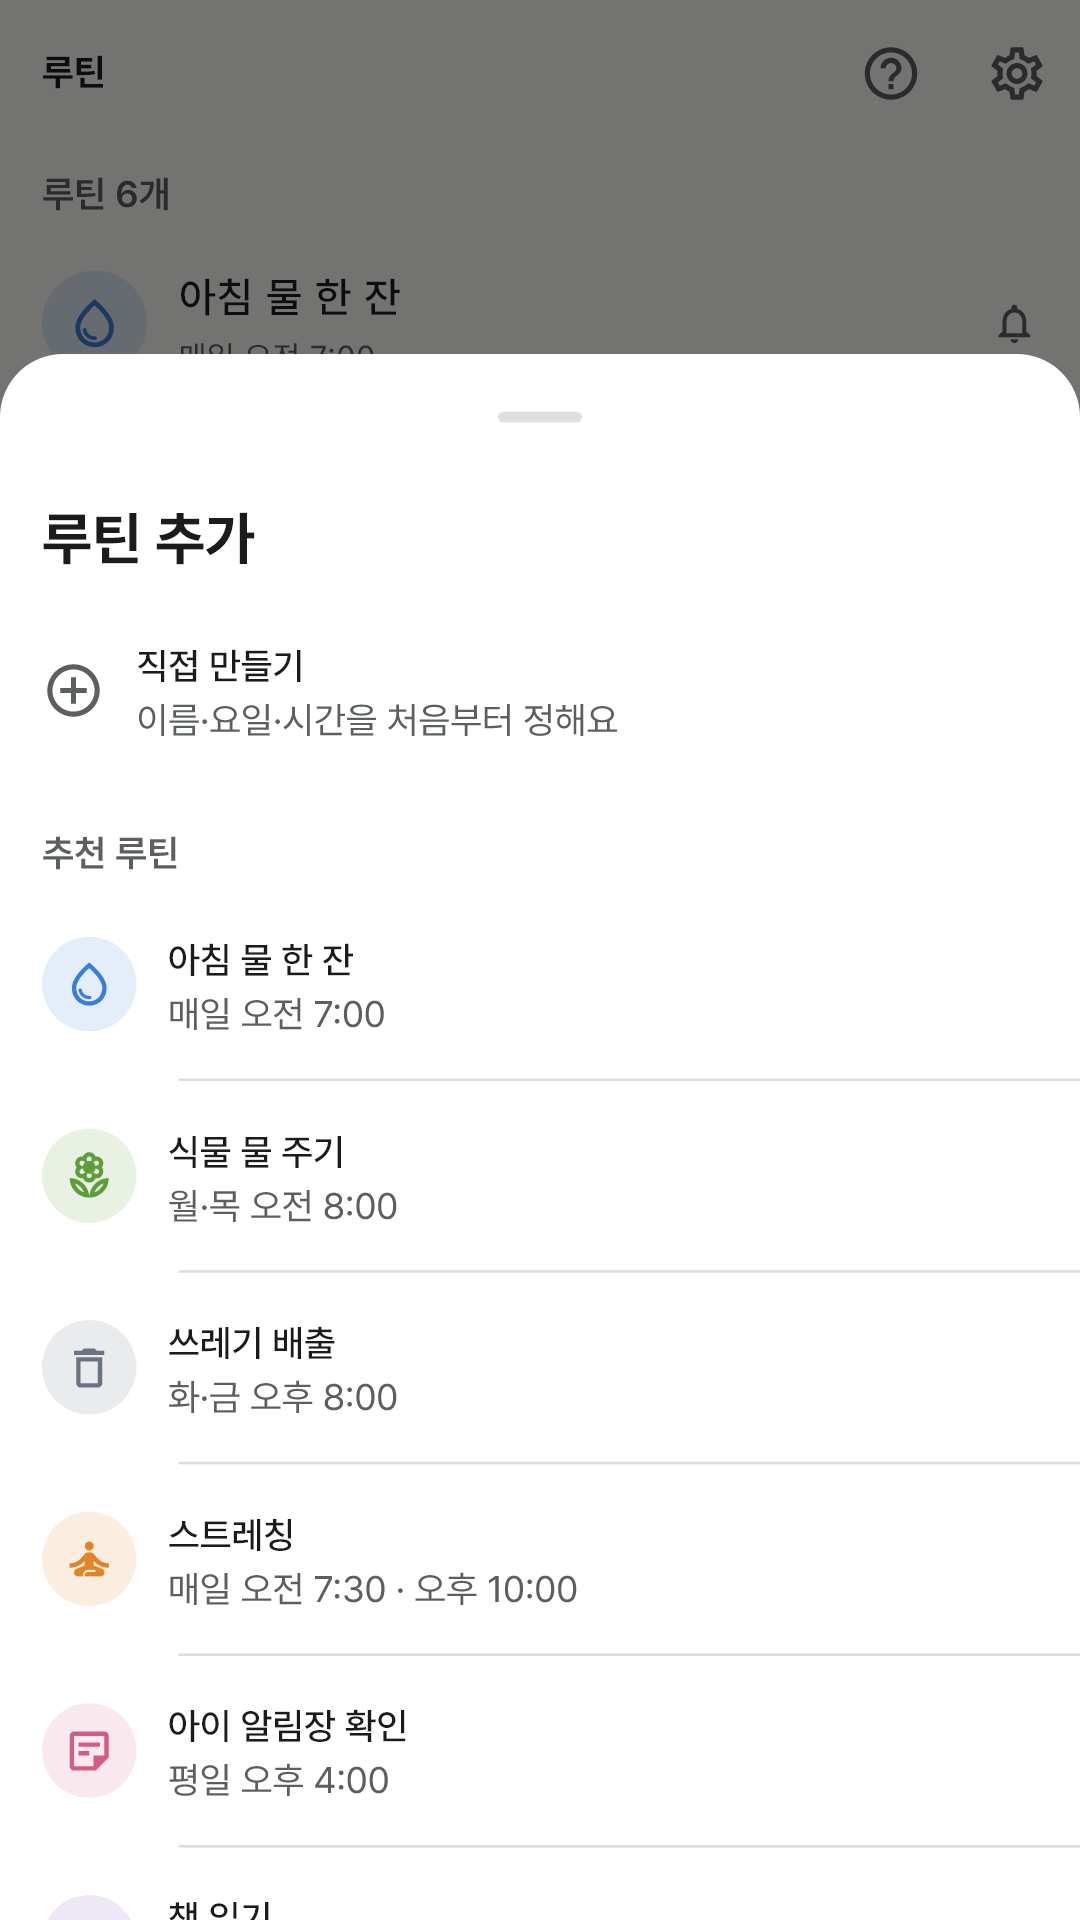
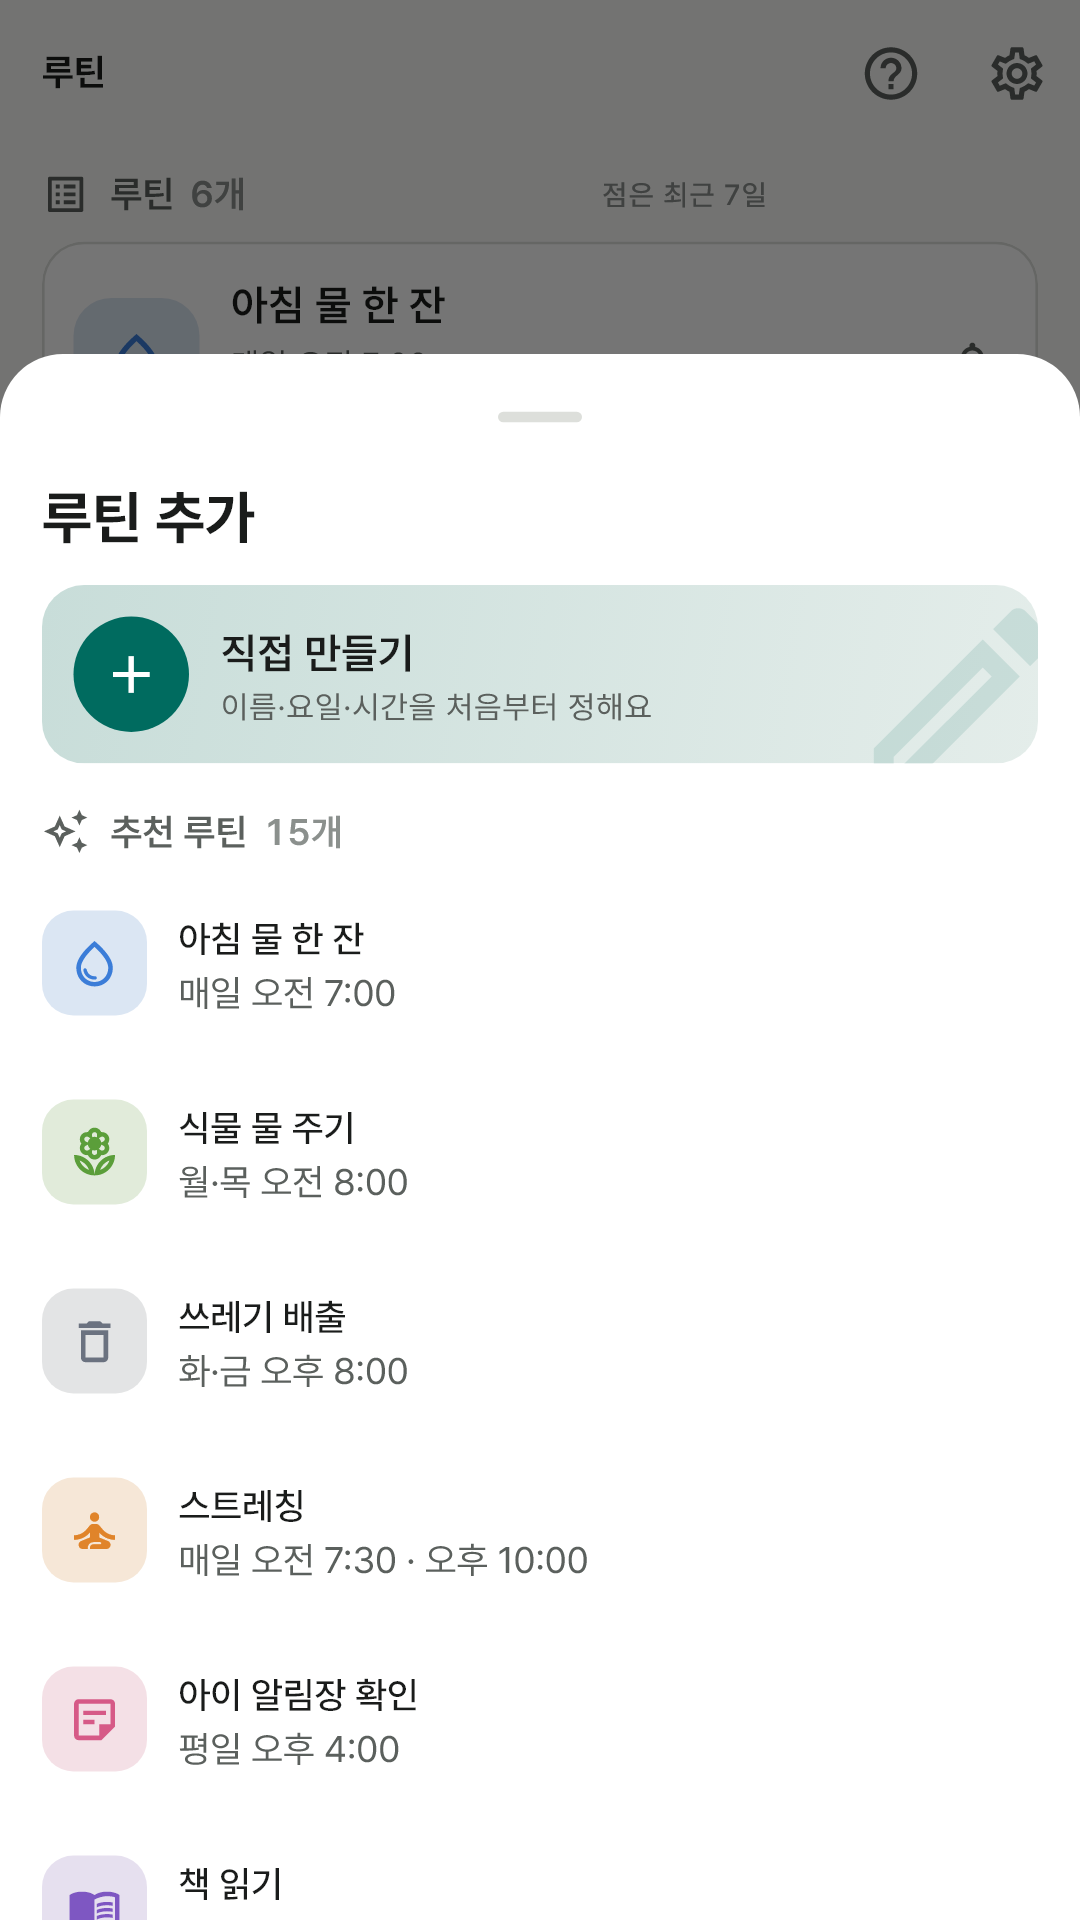
루틴 소개 페이지: 개편한 화면 스크린샷과 문구 반영

diff --git a/routine/index.html b/routine/index.html
@@ -13,16 +13,16 @@
 <nav><a href="../"><picture><source srcset="../brand/logo_dark.png" media="(prefers-color-scheme:dark)"><img src="../brand/logo.png" alt="앱이소"></picture></a><a href="privacy.html">개인정보처리방침</a></nav>
 <section class="hero"><div><span class="status">준비 중 · Android</span><h1>매일 하는 일,<br>시간 맞춰 챙겨요</h1><p class="lead">아침 물 한 잔부터 쓰레기 배출까지.<br>반복하는 일을 등록하고 알림을 받아 체크 한 번으로 끝내요.</p><div class="facts"><span>가입 없이</span><span>광고 없이</span><span>오프라인으로</span></div></div><img class="icon" src="icon-512.png" alt="앱이소 루틴 아이콘"></section>
 <section class="features">
-<article><h2>오늘 할 일은 체크 한 번</h2><p>오늘 요일에 해당하는 루틴이 시간 순서로 나와요. 줄을 누르면 완료되고 남은 개수와 진행 막대가 바로 바뀌어요.</p></article>
+<article><h2>오늘 할 일은 체크 한 번</h2><p>오늘 요일에 해당하는 루틴이 아침·낮·저녁·밤으로 묶여 시간 순서로 나와요. 카드를 누르면 완료되고 남은 개수와 달성률 고리가 바로 바뀌어요.</p></article>
 <article><h2>요일과 시간을 원하는 대로</h2><p>매일, 평일, 주말, 또는 고른 요일만 반복해요. 하루에 여러 번 하는 일은 시간을 여러 개 넣어 시간마다 따로 알림을 받아요.</p></article>
 <article><h2>달력에서 보는 달성률</h2><p>날짜마다 그날의 달성률이 작은 원으로 보여요. 깜빡한 날은 달력에서 체크할 수 있고 이번 달 달성률도 함께 보여줘요.</p></article>
 <article><h2>색과 아이콘으로 구분해요</h2><p>루틴마다 색 8가지와 아이콘 30개 중에 골라요. 처음이라면 추천 루틴 15개에서 고르고 시간만 맞추면 끝이에요.</p></article>
 </section>
 <h2>앱 안에서는 이렇게 보여요</h2>
 <section class="shots">
-<figure><img src="shots/01-today.png" alt="오늘 할 루틴과 진행 막대를 보여주는 화면" loading="lazy"><figcaption>오늘 남은 것을 한눈에.</figcaption></figure>
+<figure><img src="shots/01-today.png" alt="오늘 할 루틴과 달성률 고리를 보여주는 화면" loading="lazy"><figcaption>오늘 남은 것을 한눈에.</figcaption></figure>
 <figure><img src="shots/02-calendar.png" alt="날짜별 달성률이 표시된 월간 달력" loading="lazy"><figcaption>지난 날의 달성률을 확인해요.</figcaption></figure>
-<figure><img src="shots/03-routines.png" alt="등록한 루틴 목록" loading="lazy"><figcaption>등록한 루틴을 모아 봐요.</figcaption></figure>
+<figure><img src="shots/03-routines.png" alt="등록한 루틴 카드 목록과 최근 7일 점" loading="lazy"><figcaption>등록한 루틴을 모아 봐요.</figcaption></figure>
 <figure><img src="shots/04-presets.png" alt="추천 루틴을 고르는 시트" loading="lazy"><figcaption>추천 루틴으로 바로 시작해요.</figcaption></figure>
 <figure><img src="shots/05-editor.png" alt="반복 요일과 시간, 알림을 정하는 편집 화면" loading="lazy"><figcaption>요일과 시간을 원하는 대로.</figcaption></figure>
 </section>
